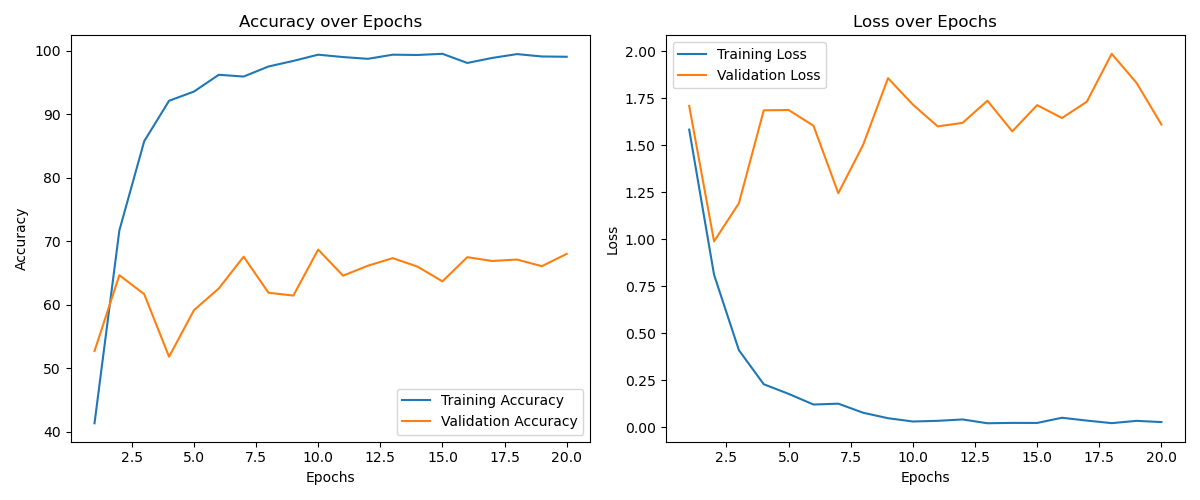
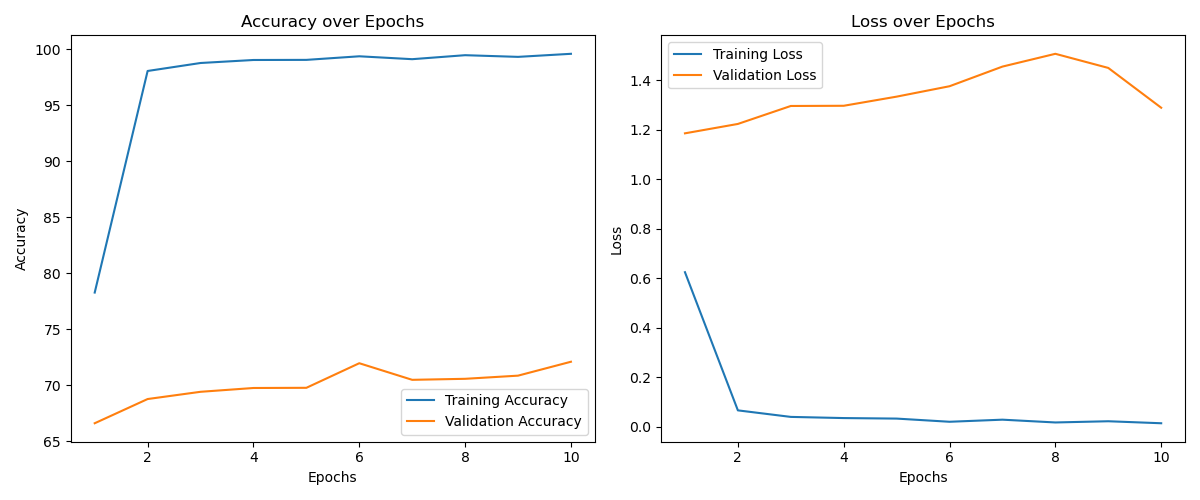
Train b1

diff --git a/trainers/train_b1.py b/trainers/train_b1.py
@@ -1,0 +1,56 @@
+import torch
+from torch import nn, optim
+from torch.utils.data import DataLoader
+from torchvision import transforms
+
+from constants import group_activities
+from datasets.group_dataset import GroupDataset
+from models.group_classifier import GroupClassifier
+from utils.data_utils import load_annotations
+from utils.logger import get_logger
+from utils.train_utils import train
+
+logger = get_logger("b1.log")
+
+videos_dir = "/media/amr/Extra/ML & DL/DL/projects/volleyball/videos/"
+annotations_dir = "/media/amr/Extra/ML & DL/DL/projects/volleyball/tracking_annotation/"
+annotations = load_annotations(videos_dir, annotations_dir)
+
+device = "cuda" if torch.cuda.is_available() else "cpu"
+
+batch_size = 16
+
+# Any size that doesn't exceed ImageNet size
+transform = transforms.Compose(
+    [
+        transforms.Resize((256, 256)),
+        transforms.CenterCrop((224, 224)),
+        transforms.ToTensor(),
+        transforms.Normalize(mean=[0.485, 0.456, 0.406], std=[0.229, 0.224, 0.225]),
+    ]
+)
+
+logger.info("Loading Training dataset...")
+train_dataset = GroupDataset(videos_dir, annotations, "train", transform=transform)
+train_data_loader = DataLoader(train_dataset, batch_size, shuffle=True)
+logger.info(f"Training dataset size: {len(train_dataset)}")
+
+logger.info("Loading Validation dataset...")
+validation_dataset = GroupDataset(videos_dir, annotations, "val", transform=transform)
+validation_data_loader = DataLoader(validation_dataset, batch_size, shuffle=False)
+logger.info(f"Validation dataset size: {len(validation_dataset)}")
+
+model = GroupClassifier(len(group_activities)).to(device)
+criterion = nn.CrossEntropyLoss()
+optimizer = optim.AdamW(model.parameters(), lr=0.0001)
+train(
+    model,
+    criterion,
+    optimizer,
+    train_data_loader,
+    validation_data_loader,
+    10,
+    group_activities.keys(),
+    "b1",
+    logger,
+)
